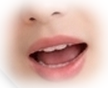
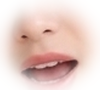
口の位置ずれを修正し、第2弾フレーム（半開き・MBP/L/S）を組み込み
報告された「口が少し下がって変」の原因は位置合わせ。編集領域の矩形だけを
比較から除外していたため、口が開いて顎が下がったぶんに引っ張られて
口全体が下にずれていた。

- 位置合わせを2段階に: 拡大率は上半分の顔で決め、上下左右は
  「鼻の下〜人中」の細い帯だけで詰める（口が開いても動かない部分）
- 切り抜きを矩形→楕円に。矩形だと顎や頬の角を持ち込んで、
  パッチの左下に暗い四角が出ていた（縁の差 18-22 → 2.4）
- 第2弾9枚を追加。口は9形になり、うち6形は半開きの中割りつき。
  L/S/MBP はエイリアスをやめて実物を使う
- 開き具合は補間するようにして、半開きのコマを通って開閉させる
- eye-quarter は他と合わせが揃わない(錨15.6 vs 6-9)ため不採用

diff --git a/avatar.js b/avatar.js
@@ -29,20 +29,19 @@ const FACE = {
 
 // 口の開き具合。[縦の開き, 横の広がり]（0〜1）
 const VISEME = {
-  rest: [0.00, 0.00], MBP: [0.00, 0.00], FV: [0.14, 0.10], S: [0.16, 0.30],
+  rest: [0.00, 0.00], MBP: [0.30, 0.00], FV: [0.14, 0.10], S: [0.16, 0.30],
   AA: [1.00, 0.10], E: [0.48, 0.55], I: [0.32, 0.45], O: [0.72, -0.30],
   U: [0.46, -0.45], L: [0.55, 0.05],
 };
 
-// 生成パッチが無い口の形を、近い形に寄せる。
-// rest / MBP は「閉じた口」＝元画像そのものなのでパッチを貼らない。
-const VISEME_ALIAS = { L: 'AA', S: 'I', FV: 'FV' };
+// 実物のパッチが無い形の逃げ道。今は全形そろっているので通常は使われない。
+const VISEME_ALIAS = { L: 'AA', S: 'I', MBP: 'FV' };
 
 const Avatar = {
   host: null, cv: null, ctx: null, img: null, ready: false, raf: 0, t0: 0,
   patches: null,          // 生成フレーム（face/frames.json）があればこちらを使う
   blinkAt: 0, blink: 0,
-  target: 'rest', open: 0, wide: 0,
+  target: 'rest', shape: 'AA', open: 0, wide: 0,
   speaking: false, seq: null, seqI: -1, seqStart: 0, seqStep: 0,
 
   loadImg(src) {
@@ -109,10 +108,12 @@ const Avatar = {
 
     // 目標の口の形へなめらかに寄せる（瞬間で切り替えるとパクパクして安っぽい）
     const [to, tw] = VISEME[this.target] || VISEME.rest;
-    // 写真パッチは中間の形を作れないので補間しない。ワープ時だけなめらかに寄せる。
-    const k = this.patches ? 1 : 0.34;
-    this.open += (to - this.open) * k;
-    this.wide += (tw - this.wide) * (this.patches ? 1 : 0.28);
+    // 開き具合は補間する。パッチ運用では、その途中で「半開き」のコマを通る。
+    // 形そのものは写真なので混ぜられない＝直前の形を保持したまま開閉させる。
+    if (this.target !== 'rest' && this.target !== 'MBP') this.shape = this.target;
+    else if (this.target === 'MBP') this.shape = 'MBP';
+    this.open += (to - this.open) * (this.patches ? 0.45 : 0.34);
+    this.wide += (tw - this.wide) * (this.patches ? 0.45 : 0.28);
     if (this.speaking && this.seq) this.stepSeq(now);
 
     // まばたき
@@ -155,9 +156,10 @@ const Avatar = {
     const open = Math.max(0, this.open);
     const M = this.patches && this.patches.mouth;
     if (M) {
-      // 閉じた口は元画像そのもの。貼らないのが正解。
-      if (this.target === 'rest' || this.target === 'MBP') return;
-      const key = M[this.target] ? this.target : VISEME_ALIAS[this.target];
+      // 閉じた口は元画像そのもの。閉じきるまでは直前の形を薄く残して、
+      // ぱたっと消えないようにする。
+      if (open < 0.22) return;
+      const key = M[this.shape] ? this.shape : VISEME_ALIAS[this.shape];
       const set = key && M[key];
       if (set && set.length) {
         const i = Math.min(set.length - 1, Math.round(open * (set.length - 1)));

diff --git a/index.html b/index.html
@@ -388,7 +388,7 @@
 </div>
 <div class="toast" id="toast"></div>
 
-<script src="avatar.js?v=10"></script>
+<script src="avatar.js?v=11"></script>
 <script src="patterns.js?v=9"></script>
 <script src="figures.js?v=9"></script>
 <script src="app.js?v=10"></script>

diff --git a/README.md b/README.md
@@ -165,9 +165,13 @@ NAS配信でマイクまで使うには、ルーターでの 80/443 転送＋Syn
 - **同期**: TTSは音素の時刻をくれないので、テキストを音節っぽく割り母音から口を決め、
   発話の推定尺（英語はおよそ毎秒14文字）いっぱいに引き伸ばす。完全同期ではないが、
   「口が動かない」「音が終わったのに動き続ける」という不自然さは消える。
-- **目・口とも生成パッチで動く**（`face/`）。目は開→半分→ほぼ→完全の4段階、口は AA/E/I/O/U/FV の6形。
-  写真どうしは中間の形を作れないので、パッチ運用時は補間せずその形に即切り替える。
-  `L`→AA、`S`→I に寄せ、閉じた口(`rest`/`MBP`)は元画像そのものなので何も貼らない。
+- **目・口とも生成パッチで動く**（`face/`、17枚）。目は開→半分→ほぼ→完全の4段階、
+  口は AA/E/I/O/U/FV/MBP/L/S の9形（うち6形は半開きの中割りつき）。
+  形そのものは写真なので混ぜられないが、**開き具合は補間する**ので半開きのコマを通って開閉する。
+- **パッチの切り方が効く。** 位置合わせは「パッチのすぐ周り」だけで測る。
+  口なら鼻の下〜人中（口が開いても動かない）。顎まで比較に入れると、
+  口が開いて顎が下がったぶんに引っ張られて**口全体が下にずれる**（実際にずれた）。
+  切り抜きも矩形ではなく**楕円**。矩形だと顎や頬の角を持ち込んで暗い四角が出る（実際に出た）。
 - **首の動き**: 比が無理数に近いサイン波を3本重ねて周期を感じさせないようにし、
   回転軸を**首の付け根**に置く（頭の中心で回すと首から上だけ振れて不自然）。
   回転で四隅が欠けないよう1.02倍で描く。
